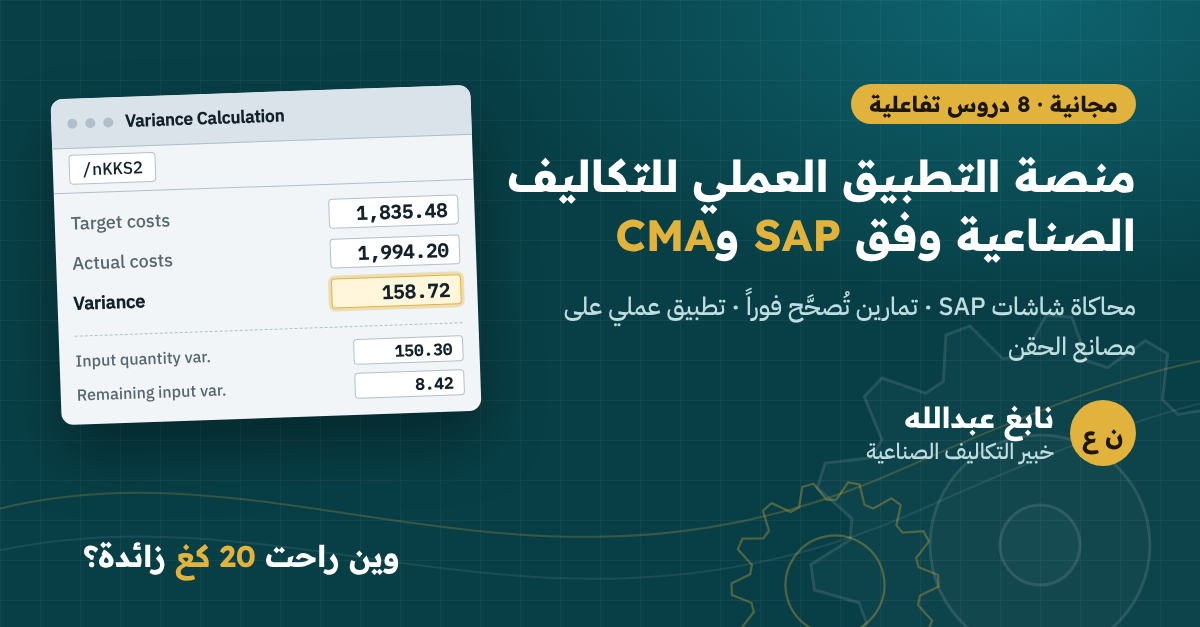
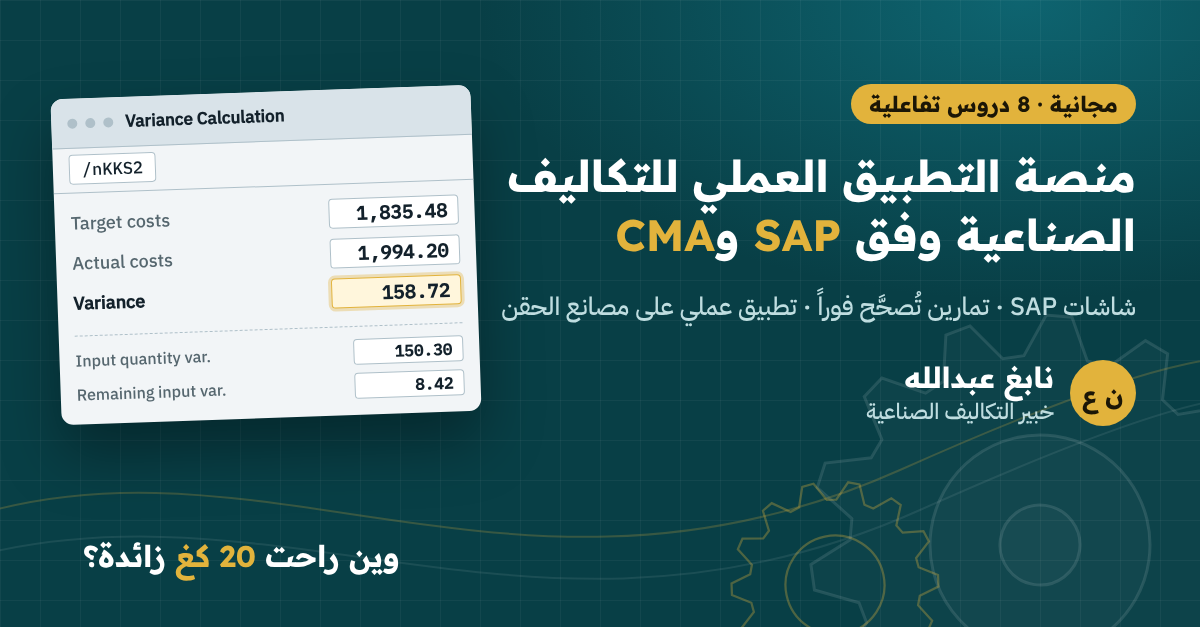
Preview image subtitle on one line
Claude-Session: https://claude.ai/code/session_019dBJfLgCJp2xWhgcmzNTA7

Changed region(s): [[0.7092, 0.5455, 0.9558, 0.7576], [0.4008, 0.4545, 0.9558, 0.5152]]

diff --git a/index.html b/index.html
@@ -11,7 +11,7 @@
 <meta property="og:title" content="منصة التطبيق العملي للتكاليف الصناعية وفق SAP وCMA">
 <meta property="og:description" content="مسار عربي مجاني من 8 دروس تفاعلية في تكاليف مصانع حقن البلاستيك على SAP S/4HANA مربوط بمنهج CMA: شاشات SAP، تمارين تُصحَّح فوراً، ومتابعة تقدم. إعداد نابغ عبدالله">
 <meta property="og:url" content="https://nabig-abdalla.github.io/sap-cost-lab/">
-<meta property="og:image" content="https://nabig-abdalla.github.io/sap-cost-lab/og.png?v=4">
+<meta property="og:image" content="https://nabig-abdalla.github.io/sap-cost-lab/og.png?v=5">
 <meta property="og:image:width" content="1200">
 <meta property="og:image:height" content="627">
 <meta name="twitter:card" content="summary_large_image">
